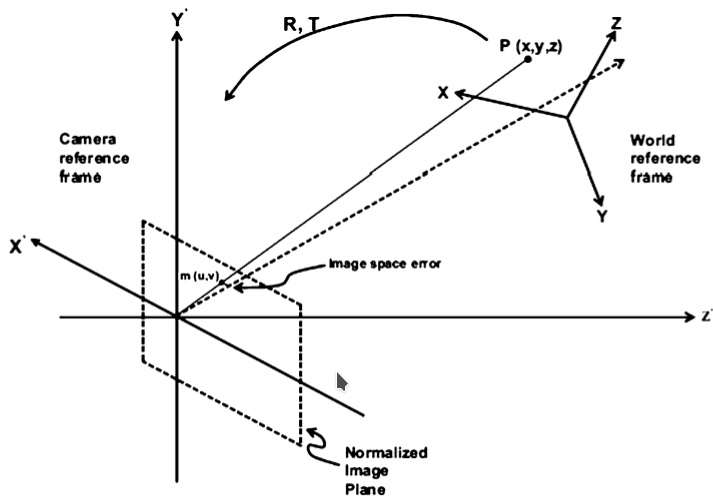
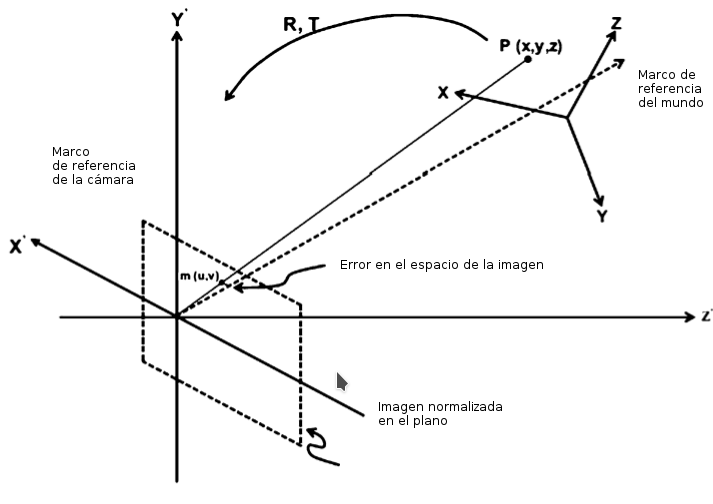
Actualizacion AR

diff --git a/TT2018-A002/marcoTeorico/secciones/realidadAumentada.tex b/TT2018-A002/marcoTeorico/secciones/realidadAumentada.tex
@@ -18,14 +18,14 @@ La realidad aumentada tiene como objetivo simplificar la vida del usuario al agr
 \subsection{Tecnología de realidad aumentada}
 El registro de imágenes de la realidad aumentada utiliza diferentes métodos de visión por computadora, principalmente relacionados con el seguimiento de vídeo Estos métodos generalmente consisten en dos etapas: reconocimiento y seguimiento/reconstrucción . Primero, se detectan marcadores, imágenes ópticas o puntos de interés en las imágenes de la cámara.\cite{B27} \par
 \vspace{5mm}
-El reconocimiento puede hacer uso de la detección de características, detección de bordes u otros métodos de procesamiento de imágenes con visión artificial, la mayoria de las tecnicas de seguimiento disponibles se pueden separar en dos clases:\cite{B27} \par
+El reconocimiento puede hacer uso de la detección de características, detección de bordes u otros métodos de procesamiento de imágenes con visión artificial, la mayoría de las técnicas de seguimiento disponibles se pueden separar en dos clases:\cite{B27} \par
 \vspace{5mm}
-Los metodos basados en caracteristicas consisten en descubir la conexion entre las caracteristicas de imagen en 2D y sus coordenadas del mundo en 3D. \cite{B27} \par
+Los métodos basados en características consisten en descubrir la conexión entre las características de imagen en 2D y sus coordenadas del mundo en 3D. \cite{B27} \par
 \vspace{5mm}
-Los metodos basados en modelos utilizan el modelo de las caracterisitcas de los objetos rastreados, como los modelos CAD o las plantillas 2D yel marco del mundo en 3D, es posible encontrar la posicion de la camara proyectando las coordenadas 3D de la entidad en las coordenadas de imagen 2D observadas y minimizando la distancia en sus caracteristicas correspondientes en 2D. Las restricciones para la estimacion de la postura de la camara se determinan con mayor frecuencia utilizando caracteristicas de puntos.\cite{B27}\par
+Estos métodos basados en modelos utilizan el modelo de las características de los objetos rastreados, como los modelos CAD o las plantillas 2D y el marco del mundo en 3D, es posible encontrar la posición de la cámara proyectando las coordenadas 3D de la entidad en las coordenadas de imagen 2D observadas y minimizando la distancia en sus características correspondientes en 2D. Las restricciones para la estimación de la postura de la cámara se determinan con mayor frecuencia utilizando características de puntos.\cite{B27}\par
 \begin{figure}[h!]
 	\centering
-	\includegraphics[width=11cm,height=7cm]{imagenes/marcoteorico/ar/tecnologyAR.png}
+	\includegraphics[width=11cm,height=8cm]{imagenes/marcoteorico/ar/tecnologyAR.png}
 	\caption{Restricciones de los puntos para el problema de la posición de la cámara respecto al objeto AR.\cite{B27}}
 	\label{fig:analogo}
 \end{figure}
@@ -38,22 +38,22 @@ Pero, lo que debería, o será el dispositivo de visualización. Tenemos varias 
 \vspace{5mm}
 \begin{figure}[h!]
 	\centering
-	\includegraphics[width=12cm,height=8cm]{imagenes/marcoteorico/ar/visionAR.png}
+	\includegraphics[width=17cm,height=10cm]{imagenes/marcoteorico/ar/visionAR.png}
 	\caption{Visión base de la realida aumentada\cite{B22}}
 	\label{fig:analogo}
 \end{figure}
-\subsection{Taxonomia de la realidad aumentada}
-La realidad aumentada es un campo sorprendentemente diverso, robusto y complicado, y si alguna vez había una industria donde una talla no se ajusta a todas, es el campo de la realidad aumentada.Los dispositivos no portátiles incluyen dispositivos móviles (teléfonos inteligentes, tabletas, notebooks, dispositivos, aparatos fijos (televisores, computadoras, reproducciones, etc.) y pantallas). El diagrama que se muestra a continuacion describe la taxonomía de la realidad aumentada.\cite{B22} \par
+\subsection{Taxonomía de la realidad aumentada}
+La realidad aumentada es un campo sorprendentemente diverso, robusto y complicado; los dispositivos no portátiles (aparatos fijos como televisores, computadoras, reproductores de musica, etc.) y dispositívos móviles (Smartphones, tablet's, notebook's) se muestran a continuación describiendo la taxonomía de la realidad aumentada.\cite{B22} \par
 \vspace{5mm}
 \begin{figure}[h!]
 	\centering
 	\includegraphics[width=17cm,height=10cm]{imagenes/marcoteorico/ar/taxonomiaAR.png}
-	\caption{Taxonomía de la realida aumentada\cite{B22}}
+	\caption{Taxonomía de la realidad aumentada\cite{B22}}
 	\label{fig:analogo}
 \end{figure}
-La experiencia puede ser experimentada en dispositivos de realidad aumentada dedicados o dedicados, o no dedicados dispositivos como televisores, teléfonos móviles, tabletas y PC. Dentro de los sistemas de realidad aumentada visuales dedicados, hay siete clases:\cite{B22} \par
+La experiencia de la realidad aumentada ser experimentada en dispositivos dedicados o no dedicados como TV's, smarthphones, tablet's y PC's. Dentro de los sistemas de realidad aumentada visuales dedicados, hay siete clases:\cite{B22} \par
 \vspace{5mm}
-Pantallas montadas en la cabeza (HMD) (a) Basada en LCD, para la cabeza (b) pantallas retinales virtuales 2. pantallas de mano (a) Pantallas LCD planas con una cámara adjunta 3. Pantallas de proyección. (a) Proyecte la información virtual directamente en los objetos físicos (b) Proyectores de cabeza o fijos en la habitación. Objetos con superficie especial reflectante. ing la luz (c) Imágenes proyectadas solo visibles a lo largo de la línea de proyección. Presumiblemente 3.c podría incluir HUDs. \cite{B22} \par
+Pantallas montadas en la cabeza (HMD) (a) Basada en LCD,(b) pantallas retinales virtuales 2. pantallas de mano (a) Pantallas LCD planas con una cámara adjunta 3. Pantallas de proyección. (a) Proyecte la información virtual directamente en los objetos físicos (b) Proyectores de cabeza o fijos en la habitación. Objetos con superficie especial reflectante. ing la luz (c) Imágenes proyectadas solo visibles a lo largo de la línea de proyección. Presumiblemente 3.c podría incluir HUDs. \cite{B22} \par
 \vspace{5mm}
 
 Mientras Steve Mann en su libro: Intelligent Image Processing (Wiley 2001) sugirió Gesticula lo siguiente: La realidad aumentada debe ser: (a) Ortoespacial (capaz de cartografiar rayos de luz virtual colinealmente con rayos de luz real); (b) ortotonal; (c) Ortotemporal (interactivo en tiempo real). Dice Mann: "Un mediador ideal de la realidad es tal que es capaz de producir un ilusión de transparencia sobre algunos o todos los campos visuales, y por lo tanto cumple todos los criterios anteriores ". Los siguientes son algunos ejemplos de los tipos de productos que componen el mercado de la realidad mentada.\cite{B22} \par
